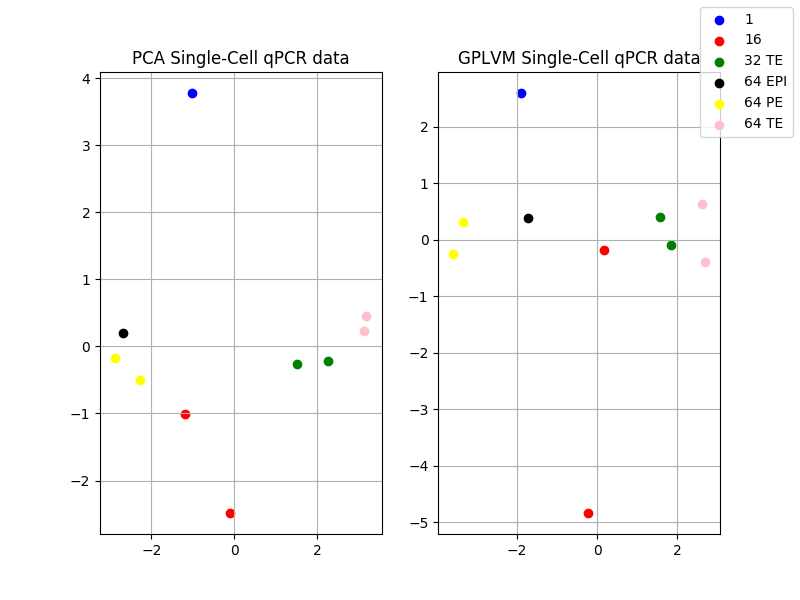
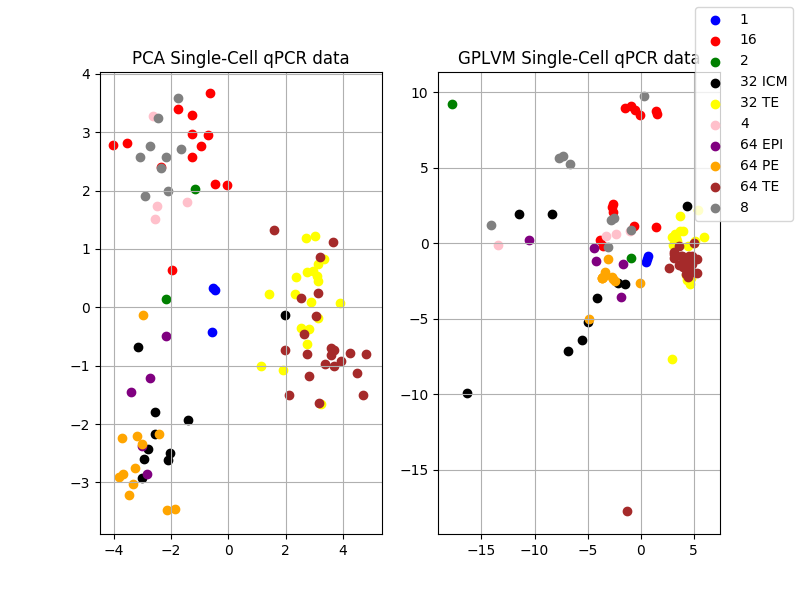
Implemented fast_gplvm (differentials not workin)

diff --git a/gplvm/fast_gplvm.py b/gplvm/fast_gplvm.py
@@ -9,7 +9,7 @@ from sklearn.gaussian_process import kernels
 import time
 from tqdm import tqdm
 from fake_dataset import generate_observations, plot
-from mice_genes import load_genes_dataset
+from mice_genes import load_genes_dataset, plot_genes
 from datetime import datetime
 
 np.random.seed(0)
@@ -45,9 +45,10 @@ class GPLVM:
         return np.matrix(alpha*kernel(X, Y) + np.eye(X.shape[0])*beta**2)
 
     def __kernel_point(self, x, y, alpha, beta, gamma):
-        if x == y:
-            return alpha*np.exp(-gamma*np.dot(x-y, x-y)/2) + beta**2
-        return alpha*np.exp(-gamma*np.dot(x-y, x-y)/2)
+        a = x - y
+        if np.array_equal(x, y):
+            return alpha*np.exp(-gamma*np.dot(a, a.T).item()/2) + beta**2
+        return alpha*np.exp(-gamma*np.dot(a, a.T).item()/2)
 
     def __kernel_param_loglike(self, params, *args):
         ''' Kernel Optimization: Equation (4) of the paper
@@ -84,57 +85,74 @@ class GPLVM:
     def __dk_dl(self, K_inv, YYT):
         return -K_inv*YYT*K_inv + self.D*K_inv
 
-    def fit_transform(self, Y, iterations):
+    def __latent_loglike(self, xj, *args):
+        j, = args
+        self.X[j, :] = xj
+        K_Ij = self.__kernel(self.X, self.X, alpha=self.kernel_params[0], beta=self.kernel_params[1], gamma=self.kernel_params[2])[self.active_set, j]
+        mu = self.YTKII_inv*K_Ij
+        sigma_sq = self.k_xx - (K_Ij.T*self.Kii_inv*K_Ij).item()
+        yj = self.Y[j, :]
+        sub = yj.reshape(mu.shape) - mu
+        return np.log(sigma_sq)/2 + np.dot(sub.T, sub).item()/(2*sigma_sq)
+
+    def fit_transform(self, Y, iterations, disp = False):
         ''' Implementation of GPLVM algorithm, returns data in latent space
         '''
         # x = StandardScaler().fit_transform(x)  # TODO(oleguer): Standardize data??
-
         self.N = Y.shape[0]
         self.D = Y.shape[1]
+        self.Y = Y
 
-        X = PCA(n_components=self.latent_dim).fit_transform(Y)
+        self.X = PCA(n_components=self.latent_dim).fit_transform(Y)
         kernel_params = np.ones(3)  # (alpha, beta, gamma)
 
         for _ in tqdm(range(iterations)):
-            active_set, _ = fake_ivm(X, self.active_set_size)  # TODO(oleguer): Call real ivm by federico
-            Xi = np.matrix(X[active_set, :])
-            Yi = np.matrix(Y[active_set, :])
+            active_set, _ = fake_ivm(self.X, self.active_set_size)  # TODO(oleguer): Call real ivm by federico
+            Xi = np.matrix(self.X[active_set, :])
+            Yi = np.matrix(self.Y[active_set, :])
             YiYiT = Yi*Yi.T  # Precompute this product
 
             # Optimize kernel parameters using active set
-            t = time.time()
-            self.timer.tic()
-            # kernel_params = fmin_cg(f = self.__kernel_param_loglike, 
-            #                         # fprime=self.__kernel_param_loglike_dif,
-            #                         x0 = kernel_params,
-            #                         args=tuple((Xi, YiYiT)),
-            #                         disp=True)
-            out = minimize(fun = self.__kernel_param_loglike, 
-                                    # jac=self.__kernel_param_loglike_dif,  #TODO(oleguer) Fix differential form!!!
-                                    x0 = kernel_params,
-                                    args = tuple((Xi, YiYiT)),
-                                    options = {"disp" : True})
-            self.timer.toc("First optimization")
+            # self.timer.tic()
+            out = minimize( fun = self.__kernel_param_loglike, 
+                            # jac=self.__kernel_param_loglike_dif,  # TODO(oleguer) Fix differential form!!!
+                            x0 = kernel_params,
+                            args = tuple((Xi, YiYiT)),
+                            options = {"disp" : disp})
+            # self.timer.toc("First optimization")
             try:
-                kernel_params = out.x
+                self.kernel_params = out.x
+                # print("kernel_params", out.x)
             except:
                 pass
 
-            alpha = kernel_params[0]
-            beta = kernel_params[1]
-            gamma = kernel_params[2]
+            self.active_set, inactive_set = fake_ivm(self.X, self.active_set_size)  # TODO(oleguer): Call real ivm by federico
+            Xi = np.matrix(self.X[self.active_set, :])
+            Yi = np.matrix(self.Y[self.active_set, :])
+            Kii = self.__kernel(Xi, Xi, alpha=self.kernel_params[0], beta=self.kernel_params[1], gamma=self.kernel_params[2])
+            K = self.__kernel(self.X, self.X, alpha=self.kernel_params[0], beta=self.kernel_params[1], gamma=kernel_params[2])
 
-            return alpha, beta, gamma
+            self.Kii_inv = Kii.I
+            self.YTKII_inv = Yi.T*self.Kii_inv
+            self.k_xx = Kii[0, 0]
+
+            for j in inactive_set:
+                out = minimize( fun = self.__latent_loglike, 
+                                # jac=self.__latent_loglikedif,  # TODO(oleguer)
+                                x0 = self.X[j, :],
+                                args = tuple((j,)),
+                                options = {"disp" : disp})
+                self.X[j, :] = out.x
+
+        return self.X
 
 if __name__ == "__main__":
-    # N = 100  # Number of observations
-    # n_classes = 3  # Number of classes
-    # D = 4  # Y dimension (observations)
-    # observations, labels = generate_observations(N, D, n_classes)
+    N, n_classes, D, observations, labels = load_genes_dataset(100, 20)
+    print("N", N)
+    print("D", D)
+    print("n_classes", n_classes)
+    gp_vals = GPLVM(active_set_size = 15).fit_transform(observations, iterations = 3)
+    # print(gp_vals)
+    pca = PCA(n_components=2).fit_transform(observations)
 
-    N, n_classes, D, observations, labels = load_genes_dataset(30, 10)
-    gp_vals = GPLVM(active_set_size = 20).fit_transform(observations, iterations = 1)
-    print(gp_vals)
-    # pca = PCA(n_components=2).fit_transform(observations)
-
-    # plot(pca, gp_vals, labels)
+    plot_genes(pca, gp_vals, labels)

diff --git a/gplvm/mice_genes.py b/gplvm/mice_genes.py
@@ -21,7 +21,7 @@ def load_genes_dataset(N, D):
     n_classes = len(df.index.unique())
     return N, n_classes, D, np.asarray(df.values), df.index
 
-def plot(pca, gp_vals, labels=None):
+def plot_genes(pca, gp_vals, labels=None):
     ''' Simple scatter of 2d data in same figure
     '''
     fig, ax = plt.subplots(nrows=1, ncols=2,figsize=(8,6))
@@ -51,4 +51,4 @@ if __name__ == "__main__":
     pca = PCA(n_components=2).fit_transform(observations)
     gp_simple = simple_gplvm(Y=observations, experiment_name="mice")
     print(pca.shape)
-    plot(pca, gp_simple, labels)
+    plot_genes(pca, gp_simple, labels)
